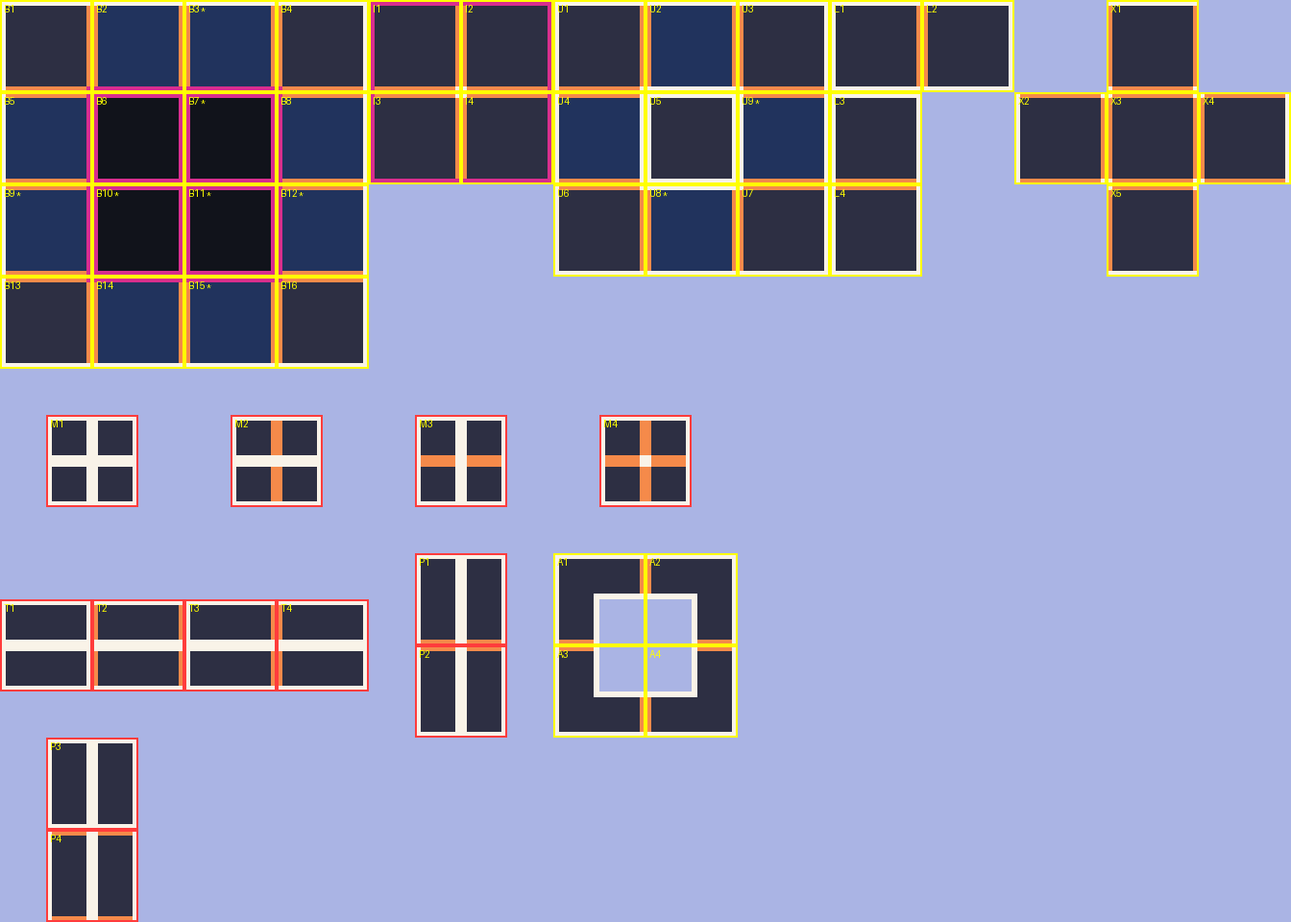
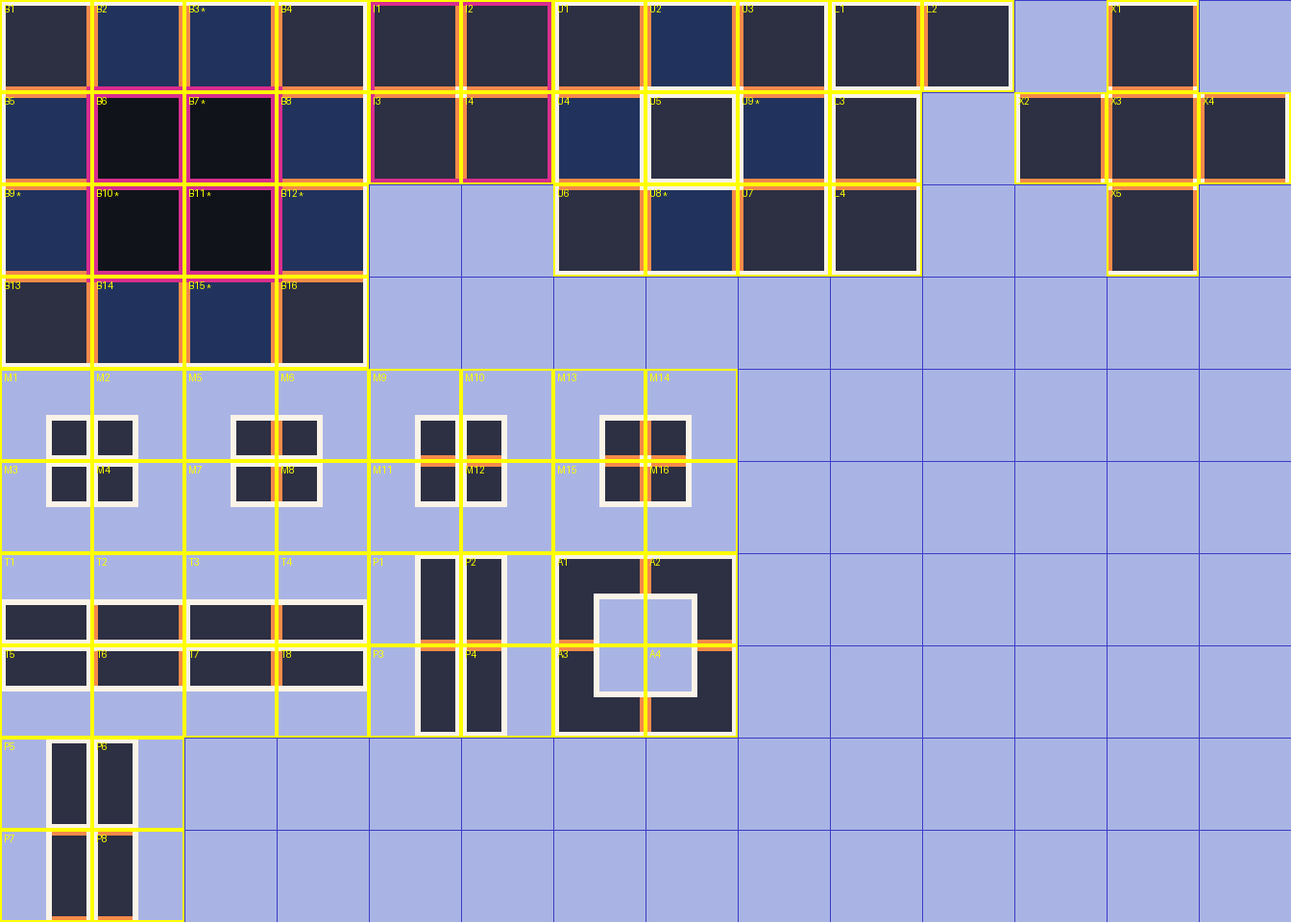
Arte: la plantilla propia se corta en la rejilla de 16 (74 tiles)
Los bloques pequeños son piezas de 8 px pegadas a un lado dentro de su
celda de 16x16. La leyenda marca la pieza y cada lado, y el script
comprueba que toda celda con dibujo esté en la lista.

Claude-Session: https://claude.ai/code/session_01Kn2cpqxE9bN1VikMeJWRgR

diff --git a/bitacora/src/datos.js b/bitacora/src/datos.js
@@ -221,7 +221,7 @@ export default {
     { fecha: "2026-11-24", hora: "12:00", decision: "Pendiente: medios bloques como tiles aparte dentro de la grid de 16×16 (no una grid de 8×8)", porque: "Propuesta: la media-inferior (dibujo en los 8 px de abajo, contorno de sombra en la fila 8) y, solo si hace falta, la media-superior, como tiles nuevos en filas nuevas de la plantilla; el collider se ajusta a la mitad. No se dibujan hasta terminar los 23 obligatorios, y quizá la plataforma B ya cubra el caso. Una grid de 8×8 rompe «un tile = una unidad» y multiplica el trabajo.", pendiente: true },
     { fecha: "2026-11-24", hora: "12:30", decision: "La plantilla de tiles es la mía de varios juegos (unos 50 tiles únicos), con medios bloques dentro de los 16×16", porque: "Ya la probé en otros juegos y cubre más formas que la primera plantilla de 33: bloque base de 4×4 (4 esquinas, 8 bordes, 4 de relleno), 4 esquinas interiores, bloques de 1×1 (suelto, esquinas y bordes), conectores en L y en cruz, 4 bloques de medio tile, tiras horizontales, pilares verticales y el anillo. Los medios bloques son mitades de 8 px dentro de tiles de 16×16, sin grid de 8×8. En la guía, naranja = se une, blanco = da al aire y magenta = se une con relleno; esas marcas van en una capa guia aparte porque son casillas de sonido (20, 21 y 23) y no deben exportarse. La primera plantilla (arte/plantillas) queda como referencia para el Rule Tile."},
     { fecha: "2026-11-24", hora: "12:30", decision: "Pendiente: dibujar los ~50 tiles en cuatro fases y revisar al final de cada una", porque: "Propuesta: fase 1 el 4×4 (16 tiles, ya da una sala); fase 2 esquinas interiores y bloques de 1×1; fase 3 tiras, pilares y anillo; fase 4 las 4 piezas pequeñas, la L y la cruz. Son de 2 a 3 tiles por día con un rato diario y quedan 20 días hasta el 14 de diciembre. Si el 4 de diciembre no voy por la fase 2, las fases 3 y 4 pasan al Paso 2 o a después del congelamiento.", pendiente: true },
-    { fecha: "2026-11-24", hora: "13:00", decision: "La plantilla propia no se modifica: 54 tiles, con los bloques pequeños corridos 8 px a un lado", porque: "Al revisar la plantilla recibida faltaban 2 tiles del 3×3 (son 9, no 7), así que son 54 y no 52. Los medios bloques, tiras y pilares (M, T, P: 12 tiles) quedan siempre pegados a un lado, a 8 px de la rejilla de 16×16, y así se quedan. La leyenda con coordenadas y marcas por lado está en arte/plantillas/LEYENDA.md."},
+    { fecha: "2026-11-24", hora: "13:00", decision: "La plantilla propia no se modifica y se corta siempre en la rejilla de 16×16: 74 tiles", porque: "Los cortes solo caen en los bordes de color, y todos están en la rejilla de 16. Los bloques pequeños (16 cuartos de 8×8, 8 tiras de 16×8 y 8 pilares de 8×16) son piezas pegadas a un lado o a una esquina dentro de su celda de 16×16, así que cada celda con dibujo es un tile: 74 en total. La leyenda con celda, pieza y marca de cada lado está en arte/plantillas/LEYENDA.md."},
     { fecha: "2026-11-24", hora: "13:00", decision: "Los tiles de azul más claro son variantes: el mismo tile con otro dibujo, para dar variedad", porque: "Los rellenos gris, azul y negro de la plantilla no son colores del juego: distinguen vecinos. El azul claro marca variantes (B3, B9, B12, B15, U8 y U9, más los rellenos B7, B10 y B11), con las mismas uniones que su tile base; el revisor comprobará que coincidan."},
     { fecha: "2026-11-24", hora: "12:00", decision: "Pendiente: decoración de 8×8 en capa aparte; mecánicas con objetos y snap a 0,5", porque: "Propuesta: la decoración (tuberías, enredaderas) puede usar una grid hija de 0,5 con su propio PNG, plantilla y Rule Tile, con la misma paleta y sin collider; no rompe Pixel Perfect si queda a múltiplos de 8 px. Lo que tenga mecánica (por ejemplo una tubería que reacciona al sonido) va como objeto con ScriptableObject y snap a 0,5. Un Tilemap de 8×8 con collider solo si el prototipo de correr y saltar (Paso 3) lo pide. Antes de dibujar hay que definir qué hace el jugador con la pieza.", pendiente: true },
   ],

diff --git a/arte/plantillas/tiles_propios.py b/arte/plantillas/tiles_propios.py
@@ -1,16 +1,15 @@
 """Lista de tiles de la plantilla propia (plantilla_propia_zona1.png) y su leyenda.
 
 Uso: python3 tiles_propios.py <carpeta de salida>
-Cada tile es (id, nombre, x, y) en píxeles; todos miden 16×16.
-Los nombres son una propuesta: corrígelos aquí y vuelve a correr el script.
+La hoja se corta SIEMPRE en la rejilla de 16×16: cada celda con dibujo es un tile.
+Los bloques pequeños son piezas de 8 px pegadas a un lado o a una esquina de su celda.
+Cada tile es (id, nombre, col, fila). Los nombres son una propuesta: corrígelos aquí.
 """
 import sys
 from PIL import Image, ImageDraw
 
-def c(col, row): return (col * 16, row * 16)
-
 TILES = []
-def t(i, nombre, xy): TILES.append((i, nombre, *xy))
+def t(i, nombre, col, fila): TILES.append((i, nombre, col, fila))
 
 # Terreno base 4×4
 for i, (n, cr) in enumerate([
@@ -18,26 +17,39 @@ for i, (n, cr) in enumerate([
     ("borde izq a", (0,1)), ("relleno 1", (1,1)), ("relleno 2", (2,1)), ("borde der a", (3,1)),
     ("borde izq b", (0,2)), ("relleno 3", (1,2)), ("relleno 4", (2,2)), ("borde der b", (3,2)),
     ("esq inf-izq", (0,3)), ("borde inf a", (1,3)), ("borde inf b", (2,3)), ("esq inf-der", (3,3))], 1):
-    t(f"B{i}", n, c(*cr))
-# Esquinas interiores (2×2 magenta) — falta confirmar cuál esquina lleva el hueco
-for i, cr in enumerate([(4,0), (5,0), (4,1), (5,1)], 1): t(f"I{i}", "esquina interior (?)", c(*cr))
-# Bloques de 1×1 (3×3): el 3×3 repite H y V; son 7 tiles únicos
+    t(f"B{i}", n, *cr)
+# Esquinas interiores (2×2 magenta): el hueco queda en la esquina sin marca magenta
+for i, (n, cr) in enumerate([("hueco abajo-der", (4,0)), ("hueco abajo-izq", (5,0)),
+                             ("hueco arriba-der", (4,1)), ("hueco arriba-izq", (5,1))], 1):
+    t(f"I{i}", "esquina interior, " + n, *cr)
+# Bloques de 1×1 (3×3)
 for i, (n, cr) in enumerate([("esq sup-izq", (6,0)), ("horizontal", (7,0)), ("esq sup-der", (8,0)),
-    ("vertical", (6,1)), ("suelto", (7,1)), ("esq inf-izq", (6,2)), ("esq inf-der", (8,2))], 1):
-    t(f"U{i}", "1×1 " + n, c(*cr))
-t("U8", "1×1 horizontal (variante)", c(7,2))
-t("U9", "1×1 vertical (variante)", c(8,1))
+    ("vertical", (6,1)), ("suelto", (7,1)), ("esq inf-izq", (6,2)), ("esq inf-der", (8,2)),
+    ("horizontal (variante)", (7,2)), ("vertical (variante)", (8,1))], 1):
+    t(f"U{i}", "1×1 " + n, *cr)
 # L
-for i, cr in enumerate([(9,0), (10,0), (9,1), (9,2)], 1): t(f"L{i}", "L", c(*cr))
+for i, cr in enumerate([(9,0), (10,0), (9,1), (9,2)], 1): t(f"L{i}", "L", *cr)
 # Cruz
 for i, (n, cr) in enumerate([("arriba", (12,0)), ("izquierda", (11,1)), ("centro", (12,1)),
-    ("derecha", (13,1)), ("abajo", (12,2))], 1): t(f"X{i}", "cruz " + n, c(*cr))
-# Medios bloques (en la imagen recibida están corridos 8 px respecto a la rejilla)
-for i, n in enumerate(["sin unir", "unidas en vertical", "unidas en horizontal", "unidas en las dos"], 1):
-    t(f"M{i}", "4 mitades: " + n, (8 + 32 * (i - 1), 72))
-for i in range(4): t(f"T{i+1}", "tira horizontal", (16 * i, 104))
-for i, xy in enumerate([(72, 96), (72, 112), (8, 128), (8, 144)], 1): t(f"P{i}", "pilar vertical", xy)
-for i, xy in enumerate([(96, 96), (112, 96), (96, 112), (112, 112)], 1): t(f"A{i}", "anillo", xy)
+    ("derecha", (13,1)), ("abajo", (12,2))], 1): t(f"X{i}", "cruz " + n, *cr)
+# Cuartos de 8×8 (filas 4-5): 4 juegos de 2×2 celdas; cada celda lleva un cuarto pegado a una esquina
+k = 1
+for c0, juego in [(0, "sueltos"), (2, "unidos en horizontal"), (4, "unidos en vertical"), (6, "unidos en las dos")]:
+    for dc, df, esq in [(0,0,"abajo-der"), (1,0,"abajo-izq"), (0,1,"arriba-der"), (1,1,"arriba-izq")]:
+        t(f"M{k}", f"cuartos {juego}, pieza {esq}", c0 + dc, 4 + df); k += 1
+# Tiras de 16×8 (filas 6-7): fila 6 pegadas abajo, fila 7 pegadas arriba
+k = 1
+for f, lado in [(6, "abajo"), (7, "arriba")]:
+    for c, n in enumerate(["suelta", "centro", "extremo izq", "extremo der"]):
+        t(f"T{k}", f"tira {n}, pegada {lado}", c, f); k += 1
+# Pilares de 8×16: columna 4 pegados a la der., columna 5 a la izq.
+t("P1", "pilar extremo sup, pegado der", 4, 6); t("P2", "pilar extremo sup, pegado izq", 5, 6)
+t("P3", "pilar extremo inf, pegado der", 4, 7); t("P4", "pilar extremo inf, pegado izq", 5, 7)
+t("P5", "pilar suelto, pegado der", 0, 8);      t("P6", "pilar suelto, pegado izq", 1, 8)
+t("P7", "pilar centro, pegado der", 0, 9);      t("P8", "pilar centro, pegado izq", 1, 9)
+# Anillo
+for i, (n, cr) in enumerate([("sup-izq", (6,6)), ("sup-der", (7,6)), ("inf-izq", (6,7)), ("inf-der", (7,7))], 1):
+    t(f"A{i}", "anillo " + n, *cr)
 
 # Variantes (azul más claro en la plantilla): mismo tile con otro dibujo, para dar variedad.
 # variante -> tile base. Mismas marcas de unión; solo cambia el dibujo.
@@ -46,41 +58,71 @@ VARIANTE_DE = {"B3":"B2", "B9":"B5", "B12":"B8", "B15":"B14",
                "U8":"U2", "U9":"U4"}
 
 COLORES = {(249,243,232):"aire", (245,138,74):"une", (216,45,142):"relleno"}
-def lados(im, x, y):
-    """Marca de cada lado (arriba, derecha, abajo, izquierda), muestreada a 3 px de la esquina."""
-    def m(px, py):
-        return COLORES.get(im.getpixel((x+px, y+py))[:3], "-")
-    return m(3,0), m(15,3), m(3,15), m(0,3)
+
+def borde(im, col, fila, lado):
+    """Marca de un lado de la celda: aire / une / relleno / vacío, con «½» si la pieza solo cubre medio lado."""
+    x, y = col * 16, fila * 16
+    pts = {"arriba": [(x+i, y) for i in range(16)], "abajo": [(x+i, y+15) for i in range(16)],
+           "izq": [(x, y+i) for i in range(16)], "der": [(x+15, y+i) for i in range(16)]}[lado]
+    px = [im.getpixel(p) for p in pts]
+    llenos = [i for i, p in enumerate(px) if p[3]]
+    if not llenos: return "vacío"
+    a, b = llenos[0], llenos[-1]
+    medio = [COLORES.get(px[i][:3], "?") for i in range(a + 1, b)]  # sin las esquinas de la pieza
+    marca = max(set(medio), key=medio.count) if medio else "?"
+    if b - a + 1 < 16:
+        donde = ("arriba" if a == 0 else "abajo") if lado in ("izq", "der") else ("izq" if a == 0 else "der")
+        return f"{marca} ½ {donde}"
+    return marca
+
+def pieza(im, col, fila):
+    x, y = col * 16, fila * 16
+    caja = im.crop((x, y, x + 16, y + 16)).getbbox()
+    if caja == (0, 0, 16, 16): return "16×16"
+    w, h = caja[2] - caja[0], caja[3] - caja[1]
+    v = "arriba" if caja[1] == 0 and h < 16 else "abajo" if h < 16 else ""
+    hz = "izq" if caja[0] == 0 and w < 16 else "der" if w < 16 else ""
+    return f"{w}×{h} " + "-".join(s for s in (v, hz) if s) if (v or hz) else f"{w}×{h} (anillo)"
 
 def leyenda_md(src, dst):
     im = Image.open(src).convert("RGBA")
-    L = ["# Leyenda de la plantilla propia (54 tiles)", "",
+    L = [f"# Leyenda de la plantilla propia ({len(TILES)} tiles)", "",
          "Generada por `tiles_propios.py` desde `plantilla_propia_zona1.png`. Corrige los nombres en el script.", "",
-         "- `x,y` son píxeles de la esquina superior izquierda; `col,fila` es la celda de 16×16 (con decimales si el tile está corrido 8 px).",
-         "- Lados: **aire** (blanco) = borde visible, lleva contorno de sombra; **une** (naranja) = el dibujo continúa con el vecino; **relleno** (magenta) = se une con relleno.",
-         "- Variante = azul más claro en la plantilla: mismo tile con otro dibujo; debe tener las mismas uniones que su base.",
-         "- Los tiles corridos (M, T, P1-P2... ver columna `corrido`) quedan pegados a un lado a 8 px de la rejilla; es así a propósito.", "",
-         "| id | nombre | x,y | col,fila | corrido | arriba | derecha | abajo | izquierda | variante de |",
+         "- La hoja se corta siempre en la rejilla de 16×16: `col,fila` es la celda y `x,y` su esquina en píxeles.",
+         "- `pieza`: tamaño del dibujo dentro de la celda y el lado o esquina al que va pegado (los bloques pequeños miden 8 px).",
+         "- Lados de la celda: **aire** (blanco) = borde visible, lleva contorno de sombra; **une** (naranja) = el dibujo continúa con el vecino; **relleno** (magenta) = se une con relleno; **vacío** = la pieza no toca ese lado. «½» = la pieza cubre solo esa mitad del lado.",
+         "- Variante = azul más claro en la plantilla: mismo tile con otro dibujo; debe tener las mismas uniones que su base.", "",
+         "| id | nombre | col,fila | x,y | pieza | arriba | derecha | abajo | izquierda | variante de |",
          "|---|---|---|---|---|---|---|---|---|---|"]
-    for i, n, x, y in TILES:
-        a, d, b, iz = lados(im, x, y)
-        corr = ("x+8 " if x % 16 else "") + ("y+8" if y % 16 else "")
-        L.append(f"| {i} | {n} | {x},{y} | {x/16:g},{y/16:g} | {corr.strip() or '-'} | {a} | {d} | {b} | {iz} | {VARIANTE_DE.get(i, '-')} |")
+    for i, n, c, f in TILES:
+        lados = [borde(im, c, f, s) for s in ("arriba", "der", "abajo", "izq")]
+        L.append(f"| {i} | {n} | {c},{f} | {c*16},{f*16} | {pieza(im, c, f)} | " + " | ".join(lados) + f" | {VARIANTE_DE.get(i, '-')} |")
     open(dst, "w", encoding="utf-8").write("\n".join(L) + "\n")
 
 def leyenda(src, dst, S=6):
     im = Image.open(src).convert("RGBA")
     bg = Image.new("RGBA", im.size, (170, 180, 228, 255)); bg.alpha_composite(im)
     b = bg.resize((im.width * S, im.height * S), Image.NEAREST); d = ImageDraw.Draw(b)
-    for i, n, x, y in TILES:
-        fuera = (x % 16 or y % 16)
-        d.rectangle([x*S, y*S, (x+16)*S-1, (y+16)*S-1], outline=(255, 60, 60, 255) if fuera else (255, 255, 0, 255), width=2)
-        d.text((x*S+4, y*S+3), i + ("*" if i in VARIANTE_DE else ""), fill=(255, 255, 0, 255))
+    for c in range(im.width // 16 + 1): d.line([(c*16*S, 0), (c*16*S, b.height)], fill=(60, 60, 200, 255))
+    for f in range(im.height // 16 + 1): d.line([(0, f*16*S), (b.width, f*16*S)], fill=(60, 60, 200, 255))
+    for i, n, c, f in TILES:
+        d.rectangle([c*16*S, f*16*S, (c+1)*16*S-1, (f+1)*16*S-1], outline=(255, 255, 0, 255), width=2)
+        d.text((c*16*S+4, f*16*S+3), i + ("*" if i in VARIANTE_DE else ""), fill=(255, 255, 0, 255))
     b.save(dst)
+
+def comprobar(src):
+    """Toda celda con dibujo está en la lista y ningún tile cae en una celda vacía."""
+    im = Image.open(src).convert("RGBA")
+    con = {(c, f) for f in range(im.height // 16) for c in range(im.width // 16)
+           if im.crop((c*16, f*16, c*16+16, f*16+16)).getbbox()}
+    lista = {(c, f) for _, _, c, f in TILES}
+    assert len(lista) == len(TILES), "celda repetida en la lista"
+    return sorted(con - lista), sorted(lista - con)
 
 if __name__ == "__main__":
     out = sys.argv[1]
-    leyenda(out + "/plantilla_propia_zona1.png", out + "/plantilla_propia_zona1_leyenda.png")
-    leyenda_md(out + "/plantilla_propia_zona1.png", out + "/LEYENDA.md")
-    fuera = [i for i, n, x, y in TILES if x % 16 or y % 16]
-    print(len(TILES), "tiles;", len(fuera), "fuera de la rejilla de 16:", " ".join(fuera))
+    src = out + "/plantilla_propia_zona1.png"
+    faltan, sobran = comprobar(src)
+    leyenda(src, out + "/plantilla_propia_zona1_leyenda.png")
+    leyenda_md(src, out + "/LEYENDA.md")
+    print(len(TILES), "tiles; celdas con dibujo sin tile:", faltan or "ninguna", "; tiles en celda vacía:", sobran or "ninguno")

diff --git a/arte/plantillas/LEYENDA.md b/arte/plantillas/LEYENDA.md
@@ -1,65 +1,85 @@
-# Leyenda de la plantilla propia (54 tiles)
+# Leyenda de la plantilla propia (74 tiles)
 
 Generada por `tiles_propios.py` desde `plantilla_propia_zona1.png`. Corrige los nombres en el script.
 
-- `x,y` son píxeles de la esquina superior izquierda; `col,fila` es la celda de 16×16 (con decimales si el tile está corrido 8 px).
-- Lados: **aire** (blanco) = borde visible, lleva contorno de sombra; **une** (naranja) = el dibujo continúa con el vecino; **relleno** (magenta) = se une con relleno.
+- La hoja se corta siempre en la rejilla de 16×16: `col,fila` es la celda y `x,y` su esquina en píxeles.
+- `pieza`: tamaño del dibujo dentro de la celda y el lado o esquina al que va pegado (los bloques pequeños miden 8 px).
+- Lados de la celda: **aire** (blanco) = borde visible, lleva contorno de sombra; **une** (naranja) = el dibujo continúa con el vecino; **relleno** (magenta) = se une con relleno; **vacío** = la pieza no toca ese lado. «½» = la pieza cubre solo esa mitad del lado.
 - Variante = azul más claro en la plantilla: mismo tile con otro dibujo; debe tener las mismas uniones que su base.
-- Los tiles corridos (M, T, P1-P2... ver columna `corrido`) quedan pegados a un lado a 8 px de la rejilla; es así a propósito.
 
-| id | nombre | x,y | col,fila | corrido | arriba | derecha | abajo | izquierda | variante de |
+| id | nombre | col,fila | x,y | pieza | arriba | derecha | abajo | izquierda | variante de |
 |---|---|---|---|---|---|---|---|---|---|
-| B1 | esq sup-izq | 0,0 | 0,0 | - | aire | une | une | aire | - |
-| B2 | borde sup a | 16,0 | 1,0 | - | aire | une | relleno | une | - |
-| B3 | borde sup b | 32,0 | 2,0 | - | aire | une | relleno | une | B2 |
-| B4 | esq sup-der | 48,0 | 3,0 | - | aire | aire | une | une | - |
-| B5 | borde izq a | 0,16 | 0,1 | - | une | relleno | une | aire | - |
-| B6 | relleno 1 | 16,16 | 1,1 | - | relleno | relleno | relleno | relleno | - |
-| B7 | relleno 2 | 32,16 | 2,1 | - | relleno | relleno | relleno | relleno | B6 |
-| B8 | borde der a | 48,16 | 3,1 | - | une | aire | une | relleno | - |
-| B9 | borde izq b | 0,32 | 0,2 | - | une | relleno | une | aire | B5 |
-| B10 | relleno 3 | 16,32 | 1,2 | - | relleno | relleno | relleno | relleno | B6 |
-| B11 | relleno 4 | 32,32 | 2,2 | - | relleno | relleno | relleno | relleno | B6 |
-| B12 | borde der b | 48,32 | 3,2 | - | une | aire | une | relleno | B8 |
-| B13 | esq inf-izq | 0,48 | 0,3 | - | une | une | aire | aire | - |
-| B14 | borde inf a | 16,48 | 1,3 | - | relleno | une | aire | une | - |
-| B15 | borde inf b | 32,48 | 2,3 | - | relleno | une | aire | une | B14 |
-| B16 | esq inf-der | 48,48 | 3,3 | - | une | aire | aire | une | - |
-| I1 | esquina interior (?) | 64,0 | 4,0 | - | relleno | une | une | relleno | - |
-| I2 | esquina interior (?) | 80,0 | 5,0 | - | relleno | relleno | une | une | - |
-| I3 | esquina interior (?) | 64,16 | 4,1 | - | une | une | relleno | relleno | - |
-| I4 | esquina interior (?) | 80,16 | 5,1 | - | une | relleno | relleno | une | - |
-| U1 | 1×1 esq sup-izq | 96,0 | 6,0 | - | aire | une | une | aire | - |
-| U2 | 1×1 horizontal | 112,0 | 7,0 | - | aire | une | aire | une | - |
-| U3 | 1×1 esq sup-der | 128,0 | 8,0 | - | aire | aire | une | une | - |
-| U4 | 1×1 vertical | 96,16 | 6,1 | - | une | aire | une | aire | - |
-| U5 | 1×1 suelto | 112,16 | 7,1 | - | aire | aire | aire | aire | - |
-| U6 | 1×1 esq inf-izq | 96,32 | 6,2 | - | une | une | aire | aire | - |
-| U7 | 1×1 esq inf-der | 128,32 | 8,2 | - | une | aire | aire | une | - |
-| U8 | 1×1 horizontal (variante) | 112,32 | 7,2 | - | aire | une | aire | une | U2 |
-| U9 | 1×1 vertical (variante) | 128,16 | 8,1 | - | une | aire | une | aire | U4 |
-| L1 | L | 144,0 | 9,0 | - | aire | une | aire | aire | - |
-| L2 | L | 160,0 | 10,0 | - | aire | aire | aire | une | - |
-| L3 | L | 144,16 | 9,1 | - | aire | aire | une | aire | - |
-| L4 | L | 144,32 | 9,2 | - | une | aire | aire | aire | - |
-| X1 | cruz arriba | 192,0 | 12,0 | - | aire | une | une | une | - |
-| X2 | cruz izquierda | 176,16 | 11,1 | - | une | une | une | aire | - |
-| X3 | cruz centro | 192,16 | 12,1 | - | une | une | une | une | - |
-| X4 | cruz derecha | 208,16 | 13,1 | - | une | aire | une | une | - |
-| X5 | cruz abajo | 192,32 | 12,2 | - | une | une | aire | une | - |
-| M1 | 4 mitades: sin unir | 8,72 | 0.5,4.5 | x+8 y+8 | aire | aire | aire | aire | - |
-| M2 | 4 mitades: unidas en vertical | 40,72 | 2.5,4.5 | x+8 y+8 | aire | aire | aire | aire | - |
-| M3 | 4 mitades: unidas en horizontal | 72,72 | 4.5,4.5 | x+8 y+8 | aire | aire | aire | aire | - |
-| M4 | 4 mitades: unidas en las dos | 104,72 | 6.5,4.5 | x+8 y+8 | aire | aire | aire | aire | - |
-| T1 | tira horizontal | 0,104 | 0,6.5 | y+8 | aire | aire | aire | aire | - |
-| T2 | tira horizontal | 16,104 | 1,6.5 | y+8 | aire | une | aire | une | - |
-| T3 | tira horizontal | 32,104 | 2,6.5 | y+8 | aire | une | aire | aire | - |
-| T4 | tira horizontal | 48,104 | 3,6.5 | y+8 | aire | aire | aire | une | - |
-| P1 | pilar vertical | 72,96 | 4.5,6 | x+8 | aire | aire | une | aire | - |
-| P2 | pilar vertical | 72,112 | 4.5,7 | x+8 | une | aire | aire | aire | - |
-| P3 | pilar vertical | 8,128 | 0.5,8 | x+8 | aire | aire | aire | aire | - |
-| P4 | pilar vertical | 8,144 | 0.5,9 | x+8 | une | aire | une | aire | - |
-| A1 | anillo | 96,96 | 6,6 | - | aire | une | une | aire | - |
-| A2 | anillo | 112,96 | 7,6 | - | aire | aire | - | une | - |
-| A3 | anillo | 96,112 | 6,7 | - | une | - | aire | aire | - |
-| A4 | anillo | 112,112 | 7,7 | - | - | aire | aire | - | - |
+| B1 | esq sup-izq | 0,0 | 0,0 | 16×16 | aire | une | une | aire | - |
+| B2 | borde sup a | 1,0 | 16,0 | 16×16 | aire | une | relleno | une | - |
+| B3 | borde sup b | 2,0 | 32,0 | 16×16 | aire | une | relleno | une | B2 |
+| B4 | esq sup-der | 3,0 | 48,0 | 16×16 | aire | aire | une | une | - |
+| B5 | borde izq a | 0,1 | 0,16 | 16×16 | une | relleno | une | aire | - |
+| B6 | relleno 1 | 1,1 | 16,16 | 16×16 | relleno | relleno | relleno | relleno | - |
+| B7 | relleno 2 | 2,1 | 32,16 | 16×16 | relleno | relleno | relleno | relleno | B6 |
+| B8 | borde der a | 3,1 | 48,16 | 16×16 | une | aire | une | relleno | - |
+| B9 | borde izq b | 0,2 | 0,32 | 16×16 | une | relleno | une | aire | B5 |
+| B10 | relleno 3 | 1,2 | 16,32 | 16×16 | relleno | relleno | relleno | relleno | B6 |
+| B11 | relleno 4 | 2,2 | 32,32 | 16×16 | relleno | relleno | relleno | relleno | B6 |
+| B12 | borde der b | 3,2 | 48,32 | 16×16 | une | aire | une | relleno | B8 |
+| B13 | esq inf-izq | 0,3 | 0,48 | 16×16 | une | une | aire | aire | - |
+| B14 | borde inf a | 1,3 | 16,48 | 16×16 | relleno | une | aire | une | - |
+| B15 | borde inf b | 2,3 | 32,48 | 16×16 | relleno | une | aire | une | B14 |
+| B16 | esq inf-der | 3,3 | 48,48 | 16×16 | une | aire | aire | une | - |
+| I1 | esquina interior, hueco abajo-der | 4,0 | 64,0 | 16×16 | relleno | une | une | relleno | - |
+| I2 | esquina interior, hueco abajo-izq | 5,0 | 80,0 | 16×16 | relleno | relleno | une | une | - |
+| I3 | esquina interior, hueco arriba-der | 4,1 | 64,16 | 16×16 | une | une | relleno | relleno | - |
+| I4 | esquina interior, hueco arriba-izq | 5,1 | 80,16 | 16×16 | une | relleno | relleno | une | - |
+| U1 | 1×1 esq sup-izq | 6,0 | 96,0 | 16×16 | aire | une | une | aire | - |
+| U2 | 1×1 horizontal | 7,0 | 112,0 | 16×16 | aire | une | aire | une | - |
+| U3 | 1×1 esq sup-der | 8,0 | 128,0 | 16×16 | aire | aire | une | une | - |
+| U4 | 1×1 vertical | 6,1 | 96,16 | 16×16 | une | aire | une | aire | - |
+| U5 | 1×1 suelto | 7,1 | 112,16 | 16×16 | aire | aire | aire | aire | - |
+| U6 | 1×1 esq inf-izq | 6,2 | 96,32 | 16×16 | une | une | aire | aire | - |
+| U7 | 1×1 esq inf-der | 8,2 | 128,32 | 16×16 | une | aire | aire | une | - |
+| U8 | 1×1 horizontal (variante) | 7,2 | 112,32 | 16×16 | aire | une | aire | une | U2 |
+| U9 | 1×1 vertical (variante) | 8,1 | 128,16 | 16×16 | une | aire | une | aire | U4 |
+| L1 | L | 9,0 | 144,0 | 16×16 | aire | une | aire | aire | - |
+| L2 | L | 10,0 | 160,0 | 16×16 | aire | aire | aire | une | - |
+| L3 | L | 9,1 | 144,16 | 16×16 | aire | aire | une | aire | - |
+| L4 | L | 9,2 | 144,32 | 16×16 | une | aire | aire | aire | - |
+| X1 | cruz arriba | 12,0 | 192,0 | 16×16 | aire | une | une | une | - |
+| X2 | cruz izquierda | 11,1 | 176,16 | 16×16 | une | une | une | aire | - |
+| X3 | cruz centro | 12,1 | 192,16 | 16×16 | une | une | une | une | - |
+| X4 | cruz derecha | 13,1 | 208,16 | 16×16 | une | aire | une | une | - |
+| X5 | cruz abajo | 12,2 | 192,32 | 16×16 | une | une | aire | une | - |
+| M1 | cuartos sueltos, pieza abajo-der | 0,4 | 0,64 | 8×8 abajo-der | vacío | aire ½ abajo | aire ½ der | vacío | - |
+| M2 | cuartos sueltos, pieza abajo-izq | 1,4 | 16,64 | 8×8 abajo-izq | vacío | vacío | aire ½ izq | aire ½ abajo | - |
+| M3 | cuartos sueltos, pieza arriba-der | 0,5 | 0,80 | 8×8 arriba-der | aire ½ der | aire ½ arriba | vacío | vacío | - |
+| M4 | cuartos sueltos, pieza arriba-izq | 1,5 | 16,80 | 8×8 arriba-izq | aire ½ izq | vacío | vacío | aire ½ arriba | - |
+| M5 | cuartos unidos en horizontal, pieza abajo-der | 2,4 | 32,64 | 8×8 abajo-der | vacío | une ½ abajo | aire ½ der | vacío | - |
+| M6 | cuartos unidos en horizontal, pieza abajo-izq | 3,4 | 48,64 | 8×8 abajo-izq | vacío | vacío | aire ½ izq | une ½ abajo | - |
+| M7 | cuartos unidos en horizontal, pieza arriba-der | 2,5 | 32,80 | 8×8 arriba-der | aire ½ der | une ½ arriba | vacío | vacío | - |
+| M8 | cuartos unidos en horizontal, pieza arriba-izq | 3,5 | 48,80 | 8×8 arriba-izq | aire ½ izq | vacío | vacío | une ½ arriba | - |
+| M9 | cuartos unidos en vertical, pieza abajo-der | 4,4 | 64,64 | 8×8 abajo-der | vacío | aire ½ abajo | une ½ der | vacío | - |
+| M10 | cuartos unidos en vertical, pieza abajo-izq | 5,4 | 80,64 | 8×8 abajo-izq | vacío | vacío | une ½ izq | aire ½ abajo | - |
+| M11 | cuartos unidos en vertical, pieza arriba-der | 4,5 | 64,80 | 8×8 arriba-der | une ½ der | aire ½ arriba | vacío | vacío | - |
+| M12 | cuartos unidos en vertical, pieza arriba-izq | 5,5 | 80,80 | 8×8 arriba-izq | une ½ izq | vacío | vacío | aire ½ arriba | - |
+| M13 | cuartos unidos en las dos, pieza abajo-der | 6,4 | 96,64 | 8×8 abajo-der | vacío | une ½ abajo | une ½ der | vacío | - |
+| M14 | cuartos unidos en las dos, pieza abajo-izq | 7,4 | 112,64 | 8×8 abajo-izq | vacío | vacío | une ½ izq | une ½ abajo | - |
+| M15 | cuartos unidos en las dos, pieza arriba-der | 6,5 | 96,80 | 8×8 arriba-der | une ½ der | une ½ arriba | vacío | vacío | - |
+| M16 | cuartos unidos en las dos, pieza arriba-izq | 7,5 | 112,80 | 8×8 arriba-izq | une ½ izq | vacío | vacío | une ½ arriba | - |
+| T1 | tira suelta, pegada abajo | 0,6 | 0,96 | 16×8 abajo | vacío | aire ½ abajo | aire | aire ½ abajo | - |
+| T2 | tira centro, pegada abajo | 1,6 | 16,96 | 16×8 abajo | vacío | une ½ abajo | aire | une ½ abajo | - |
+| T3 | tira extremo izq, pegada abajo | 2,6 | 32,96 | 16×8 abajo | vacío | une ½ abajo | aire | aire ½ abajo | - |
+| T4 | tira extremo der, pegada abajo | 3,6 | 48,96 | 16×8 abajo | vacío | aire ½ abajo | aire | une ½ abajo | - |
+| T5 | tira suelta, pegada arriba | 0,7 | 0,112 | 16×8 arriba | aire | aire ½ arriba | vacío | aire ½ arriba | - |
+| T6 | tira centro, pegada arriba | 1,7 | 16,112 | 16×8 arriba | aire | une ½ arriba | vacío | une ½ arriba | - |
+| T7 | tira extremo izq, pegada arriba | 2,7 | 32,112 | 16×8 arriba | aire | une ½ arriba | vacío | aire ½ arriba | - |
+| T8 | tira extremo der, pegada arriba | 3,7 | 48,112 | 16×8 arriba | aire | aire ½ arriba | vacío | une ½ arriba | - |
+| P1 | pilar extremo sup, pegado der | 4,6 | 64,96 | 8×16 der | aire ½ der | aire | une ½ der | vacío | - |
+| P2 | pilar extremo sup, pegado izq | 5,6 | 80,96 | 8×16 izq | aire ½ izq | vacío | une ½ izq | aire | - |
+| P3 | pilar extremo inf, pegado der | 4,7 | 64,112 | 8×16 der | une ½ der | aire | aire ½ der | vacío | - |
+| P4 | pilar extremo inf, pegado izq | 5,7 | 80,112 | 8×16 izq | une ½ izq | vacío | aire ½ izq | aire | - |
+| P5 | pilar suelto, pegado der | 0,8 | 0,128 | 8×16 der | aire ½ der | aire | aire ½ der | vacío | - |
+| P6 | pilar suelto, pegado izq | 1,8 | 16,128 | 8×16 izq | aire ½ izq | vacío | aire ½ izq | aire | - |
+| P7 | pilar centro, pegado der | 0,9 | 0,144 | 8×16 der | une ½ der | aire | une ½ der | vacío | - |
+| P8 | pilar centro, pegado izq | 1,9 | 16,144 | 8×16 izq | une ½ izq | vacío | une ½ izq | aire | - |
+| A1 | anillo sup-izq | 6,6 | 96,96 | 16×16 | aire | une ½ arriba | une ½ izq | aire | - |
+| A2 | anillo sup-der | 7,6 | 112,96 | 16×16 | aire | aire | une ½ der | une ½ arriba | - |
+| A3 | anillo inf-izq | 6,7 | 96,112 | 16×16 | une ½ izq | une ½ abajo | aire | aire | - |
+| A4 | anillo inf-der | 7,7 | 112,112 | 16×16 | une ½ der | aire | aire | une ½ abajo | - |

diff --git a/arte/plantillas/LEEME.md b/arte/plantillas/LEEME.md
@@ -15,6 +15,8 @@ Marcas: punteado verde = se une con otro tile (el dibujo continúa sin corte); l
 
 ## Plantilla propia (la que se usa)
 
-- `plantilla_propia_zona1.png`: la plantilla del autor (224×160, 52 tiles únicos de 16×16). La anterior queda como referencia para el Rule Tile.
-- `plantilla_propia_zona1_leyenda.png`: la misma, ampliada, con el id de cada tile. Marco amarillo = alineado a la rejilla de 16; marco rojo = corrido 8 px de la rejilla.
-- `tiles_propios.py`: lista de tiles (id, nombre, posición) y generador de la leyenda (`python3 tiles_propios.py <carpeta>`). Los nombres son una propuesta: se corrigen en el script.
+- `plantilla_propia_zona1.png`: la plantilla del autor (224×160). No se modifica. Se corta siempre en la rejilla de 16×16: son 74 tiles (cada celda con dibujo es uno).
+- Los bloques pequeños (cuartos, tiras y pilares) son piezas de 8 px pegadas a un lado o a una esquina dentro de su celda de 16×16; los cortes caen siempre en un borde de color.
+- El azul más claro marca variantes: el mismo tile con otro dibujo. Llevan las mismas uniones que su tile base.
+- `LEYENDA.md` y `plantilla_propia_zona1_leyenda.png`: id, nombre, celda, pieza y marca de cada lado. Las variantes llevan `*`.
+- `tiles_propios.py`: lista de tiles y generador de la leyenda (`python3 tiles_propios.py <carpeta>`); también comprueba que toda celda con dibujo esté en la lista. Los nombres son una propuesta: se corrigen en el script.

diff --git a/bitacora/contenido/tareas/2026-S48.md b/bitacora/contenido/tareas/2026-S48.md
@@ -20,7 +20,7 @@ Desde el 23 de nov.: sala de estilo de la zona 1 (Ritmo), paso 1. Las tareas del
   - [ ] Anotar un truco por juego
 - [x] (arte) Cerrar la paleta: casillas por material y hora del día · @claude
 - [ ] (arte) Dibujar los tiles de la plantilla en Aseprite · @claude
-  - [x] Leyenda con coordenadas de los 54 tiles (arte/plantillas/LEYENDA.md)
+  - [x] Leyenda con coordenadas de los 74 tiles (arte/plantillas/LEYENDA.md)
   - [ ] Revisor arte/plantillas/revisar_tiles.py
   - [ ] Guía por fases
   - [ ] Dibujar y revisar por fases
